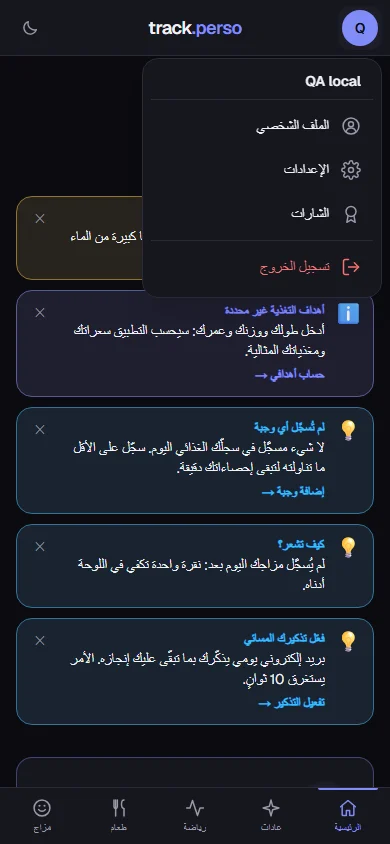
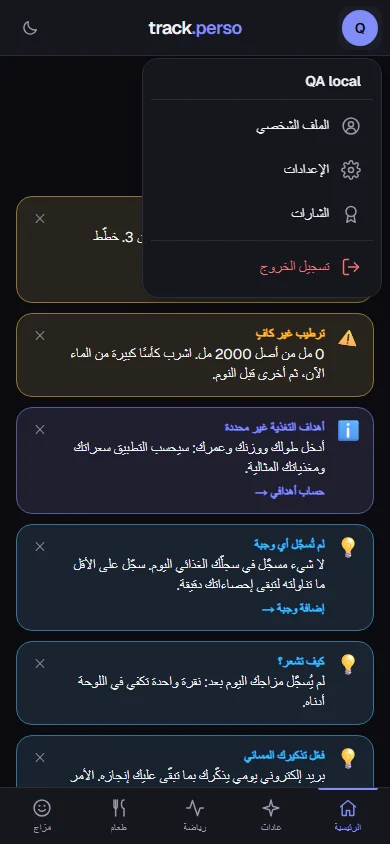
feat: give profile, settings and badges their own pages
The account menu sent Paramètres and Badges to anchors on one long
profile page. They are now separate routes, /profil/parametres and
/profil/badges, each with a link back to the profile. The profile keeps
the level and activity summary and links to both pages, which desktop
needs since its sidebar only reaches /profil.

The reminder and photo hints move to the settings page: they say
"plus bas" and « Mon compte », which only hold true there.

diff --git a/src/app/(app)/profil/page.tsx b/src/app/(app)/profil/page.tsx
@@ -1,18 +1,14 @@
+import Link from "next/link";
 import { createClient } from "@/lib/supabase/server";
 import { getCurrentUser } from "@/lib/supabase/read-context";
 import { BADGES } from "@/lib/gamification";
 import { computeProfileStats, summarizeProgress } from "@/lib/profile-stats";
-import { ReminderSettings } from "@/components/reminder-settings";
 import { SignOutButton } from "@/components/auth/sign-out-button";
 import { ProfileStats } from "@/components/profile-stats";
-import { BadgeGrid } from "@/components/badge-grid";
 import { StreakFlame } from "@/components/ui/streak-flame";
-import { ThemeSelector } from "@/components/theme-selector";
 import { Avatar } from "@/components/avatar";
-import { Callout } from "@/components/ui/callout";
-import { AccountSettings } from "@/components/account-settings";
 import { AnimatedCounter } from "@/components/ui/animated-counter";
-import { LanguageSelector } from "@/components/language-selector";
+import { AwardIcon, SettingsIcon } from "@/components/ui/nav-icons";
 import { getDictionary, getT } from "@/lib/i18n/get-dictionary";
 
 export default async function ProfilPage() {
@@ -31,11 +27,16 @@ export default async function ProfilPage() {
   ]);
   if (profileError) throw new Error("Impossible de charger le profil.");
 
-  const { points, level, pointsIntoLevel, pointsForNextLevel, progressPct, unlocked: unlockedBadges, locked: lockedBadges } =
+  const { points, level, pointsIntoLevel, pointsForNextLevel, progressPct, unlocked: unlockedBadges } =
     summarizeProgress(stats);
   const bestStreak = stats.bestStreak;
 
   const displayName = profile?.display_name || user.email?.split("@")[0] || "toi";
+  // Settings and badges live on their own pages; this one links to them.
+  const subpages = [
+    { href: "/profil/parametres", label: dict.nav.settings, Icon: SettingsIcon },
+    { href: "/profil/badges", label: dict.nav.badges, Icon: AwardIcon, detail: t("profile.badgesUnlocked", { unlocked: unlockedBadges.length, total: BADGES.length }) },
+  ];
 
   return (
     <div className="space-y-8 animate-fade-in">
@@ -69,17 +70,6 @@ export default async function ProfilPage() {
         </div>
       </div>
 
-      {!profile?.reminder_time && (
-        <Callout variant="tip" title={t("profile.calloutReminder.title")} dismissKey="profile-reminder" compact>
-          {t("profile.calloutReminder.text")}
-        </Callout>
-      )}
-      {!profile?.avatar_url && (
-        <Callout variant="info" title={t("profile.calloutCustomize.title")} dismissKey="profile-avatar" compact>
-          {t("profile.calloutCustomize.text")}
-        </Callout>
-      )}
-
       <ProfileStats
         stats={[
           { label: t("profile.stats.habitsChecked"), value: stats.habitLogsCount, color: "var(--habit)" },
@@ -89,51 +79,24 @@ export default async function ProfilPage() {
         ]}
       />
 
-      <div id="parametres" className="scroll-mt-20">
-      <AccountSettings
-        userId={user.id}
-        email={user.email ?? ""}
-        displayName={displayName}
-        avatarUrl={profile?.avatar_url ?? null}
-        memberSinceYear={new Date(user.created_at).getFullYear()}
-      />
-      </div>
-
-      <div className="rounded-2xl border-[1.5px] border-accent/40 bg-surface p-5">
-        <h2 className="mb-3 flex items-center gap-2 text-sm font-medium">
-          <span className="flex h-8 w-8 items-center justify-center rounded-lg bg-accent-soft">🎨</span>
-          {t("profile.appearanceHeading")}
-        </h2>
-        <ThemeSelector />
-      </div>
-
-      <div className="rounded-2xl border-[1.5px] border-accent/40 bg-surface p-5">
-        <h2 className="mb-1 flex items-center gap-2 text-sm font-medium">
-          <span className="flex h-8 w-8 items-center justify-center rounded-lg bg-accent-soft">🌐</span>
-          {dict.language.title}
-        </h2>
-        <p className="mb-3 text-xs text-foreground-muted">{dict.language.description}</p>
-        <LanguageSelector />
-      </div>
-
-      <div className="rounded-2xl border border-border bg-surface p-5">
-        <h2 className="mb-3 flex items-center gap-2 text-sm font-medium">
-          <span className="flex h-8 w-8 items-center justify-center rounded-lg bg-accent-soft">🔔</span>
-          {t("profile.reminders.heading")}
-        </h2>
-        <ReminderSettings initialTime={profile?.reminder_time ?? null} email={user.email ?? ""} />
-      </div>
-
-      <div id="badges" className="scroll-mt-20">
-        <h2 className="mb-3 text-sm font-medium text-foreground-muted">{t("profile.badgesHeading")}</h2>
-        <BadgeGrid
-          badges={[...unlockedBadges, ...lockedBadges].map((badge) => ({
-            id: badge.id,
-            icon: badge.icon,
-            unlocked: unlockedBadges.includes(badge),
-          }))}
-        />
-      </div>
+      <nav aria-label={dict.pages.profile.title} className="overflow-hidden rounded-2xl border border-border bg-surface">
+        {subpages.map(({ href, label, Icon, detail }) => (
+          <Link
+            key={href}
+            href={href}
+            className="flex min-h-14 items-center gap-3 border-b border-border px-4 last:border-b-0 transition hover:bg-surface-muted"
+          >
+            <span className="flex h-9 w-9 items-center justify-center rounded-lg bg-accent-soft text-accent">
+              <Icon className="h-5 w-5" />
+            </span>
+            <span className="min-w-0 flex-1">
+              <span className="block text-sm font-medium">{label}</span>
+              {detail && <span className="block text-xs text-foreground-muted">{detail}</span>}
+            </span>
+            <span aria-hidden className="text-foreground-muted rtl:rotate-180">›</span>
+          </Link>
+        ))}
+      </nav>
 
       <SignOutButton className="w-full rounded-2xl border border-border bg-surface px-4 py-3 text-center text-sm font-medium text-foreground-muted transition hover:bg-surface-muted md:hidden">
         {dict.nav.signOut}

diff --git a/src/app/(app)/profil/parametres/page.tsx b/src/app/(app)/profil/parametres/page.tsx
@@ -1,0 +1,78 @@
+import { createClient } from "@/lib/supabase/server";
+import { getCurrentUser } from "@/lib/supabase/read-context";
+import { ReminderSettings } from "@/components/reminder-settings";
+import { ThemeSelector } from "@/components/theme-selector";
+import { AccountSettings } from "@/components/account-settings";
+import { LanguageSelector } from "@/components/language-selector";
+import { ProfileSubpageHeader } from "@/components/profile-subpage-header";
+import { Callout } from "@/components/ui/callout";
+import { getDictionary, getT } from "@/lib/i18n/get-dictionary";
+
+export default async function ProfilSettingsPage() {
+  const supabase = await createClient();
+  const user = await getCurrentUser();
+  if (!user) return null;
+
+  const [dict, t, { data: profile, error: profileError }] = await Promise.all([
+    getDictionary(),
+    getT(),
+    supabase.from("profiles")
+      .select("display_name, reminder_time, avatar_url")
+      .eq("id", user.id)
+      .single(),
+  ]);
+  if (profileError) throw new Error("Impossible de charger le profil.");
+
+  const displayName = profile?.display_name || user.email?.split("@")[0] || "toi";
+
+  return (
+    <div className="space-y-8 animate-fade-in">
+      <ProfileSubpageHeader title={dict.nav.settings} backLabel={dict.nav.profile} />
+
+      {/* These hints point at "Mon compte" and at the reminders further down: both live on this page. */}
+      {!profile?.reminder_time && (
+        <Callout variant="tip" title={t("profile.calloutReminder.title")} dismissKey="profile-reminder" compact>
+          {t("profile.calloutReminder.text")}
+        </Callout>
+      )}
+      {!profile?.avatar_url && (
+        <Callout variant="info" title={t("profile.calloutCustomize.title")} dismissKey="profile-avatar" compact>
+          {t("profile.calloutCustomize.text")}
+        </Callout>
+      )}
+
+      <AccountSettings
+        userId={user.id}
+        email={user.email ?? ""}
+        displayName={displayName}
+        avatarUrl={profile?.avatar_url ?? null}
+        memberSinceYear={new Date(user.created_at).getFullYear()}
+      />
+
+      <div className="rounded-2xl border-[1.5px] border-accent/40 bg-surface p-5">
+        <h2 className="mb-3 flex items-center gap-2 text-sm font-medium">
+          <span className="flex h-8 w-8 items-center justify-center rounded-lg bg-accent-soft">🎨</span>
+          {t("profile.appearanceHeading")}
+        </h2>
+        <ThemeSelector />
+      </div>
+
+      <div className="rounded-2xl border-[1.5px] border-accent/40 bg-surface p-5">
+        <h2 className="mb-1 flex items-center gap-2 text-sm font-medium">
+          <span className="flex h-8 w-8 items-center justify-center rounded-lg bg-accent-soft">🌐</span>
+          {dict.language.title}
+        </h2>
+        <p className="mb-3 text-xs text-foreground-muted">{dict.language.description}</p>
+        <LanguageSelector />
+      </div>
+
+      <div className="rounded-2xl border border-border bg-surface p-5">
+        <h2 className="mb-3 flex items-center gap-2 text-sm font-medium">
+          <span className="flex h-8 w-8 items-center justify-center rounded-lg bg-accent-soft">🔔</span>
+          {t("profile.reminders.heading")}
+        </h2>
+        <ReminderSettings initialTime={profile?.reminder_time ?? null} email={user.email ?? ""} />
+      </div>
+    </div>
+  );
+}

diff --git a/src/app/(app)/profil/badges/page.tsx b/src/app/(app)/profil/badges/page.tsx
@@ -1,0 +1,32 @@
+import { createClient } from "@/lib/supabase/server";
+import { getCurrentUser } from "@/lib/supabase/read-context";
+import { BADGES } from "@/lib/gamification";
+import { computeProfileStats, summarizeProgress } from "@/lib/profile-stats";
+import { BadgeGrid } from "@/components/badge-grid";
+import { ProfileSubpageHeader } from "@/components/profile-subpage-header";
+import { getDictionary, getT } from "@/lib/i18n/get-dictionary";
+
+export default async function ProfilBadgesPage() {
+  const supabase = await createClient();
+  const user = await getCurrentUser();
+  if (!user) return null;
+
+  const [dict, t, stats] = await Promise.all([getDictionary(), getT(), computeProfileStats(supabase, user.id)]);
+  const { unlocked: unlockedBadges, locked: lockedBadges } = summarizeProgress(stats);
+
+  return (
+    <div className="space-y-6 animate-fade-in">
+      <ProfileSubpageHeader title={dict.nav.badges} backLabel={dict.nav.profile} />
+      <p className="text-sm text-foreground-muted">
+        {t("profile.badgesUnlocked", { unlocked: unlockedBadges.length, total: BADGES.length })}
+      </p>
+      <BadgeGrid
+        badges={[...unlockedBadges, ...lockedBadges].map((badge) => ({
+          id: badge.id,
+          icon: badge.icon,
+          unlocked: unlockedBadges.includes(badge),
+        }))}
+      />
+    </div>
+  );
+}

diff --git a/src/components/profile-subpage-header.tsx b/src/components/profile-subpage-header.tsx
@@ -1,0 +1,17 @@
+import Link from "next/link";
+
+/** Title block shared by the profile sub-pages, with a way back to the profile overview. */
+export function ProfileSubpageHeader({ title, backLabel }: { title: string; backLabel: string }) {
+  return (
+    <div>
+      <Link
+        href="/profil"
+        className="-ms-2 inline-flex min-h-11 items-center gap-1 rounded-xl px-2 text-sm font-medium text-accent transition hover:bg-surface-muted"
+      >
+        <span aria-hidden className="rtl:rotate-180">‹</span>
+        {backLabel}
+      </Link>
+      <h1 className="text-2xl font-semibold tracking-tight">{title}</h1>
+    </div>
+  );
+}

diff --git a/src/components/mobile-account-menu.tsx b/src/components/mobile-account-menu.tsx
@@ -46,8 +46,8 @@ export function MobileAccountMenu({ displayName, avatarUrl }: { displayName: str
 
   const links = [
     { href: "/profil", label: t("nav.profile"), Icon: UserCircleIcon },
-    { href: "/profil#parametres", label: t("nav.settings"), Icon: SettingsIcon },
-    { href: "/profil#badges", label: t("nav.badges"), Icon: AwardIcon },
+    { href: "/profil/parametres", label: t("nav.settings"), Icon: SettingsIcon },
+    { href: "/profil/badges", label: t("nav.badges"), Icon: AwardIcon },
   ];
 
   return (
